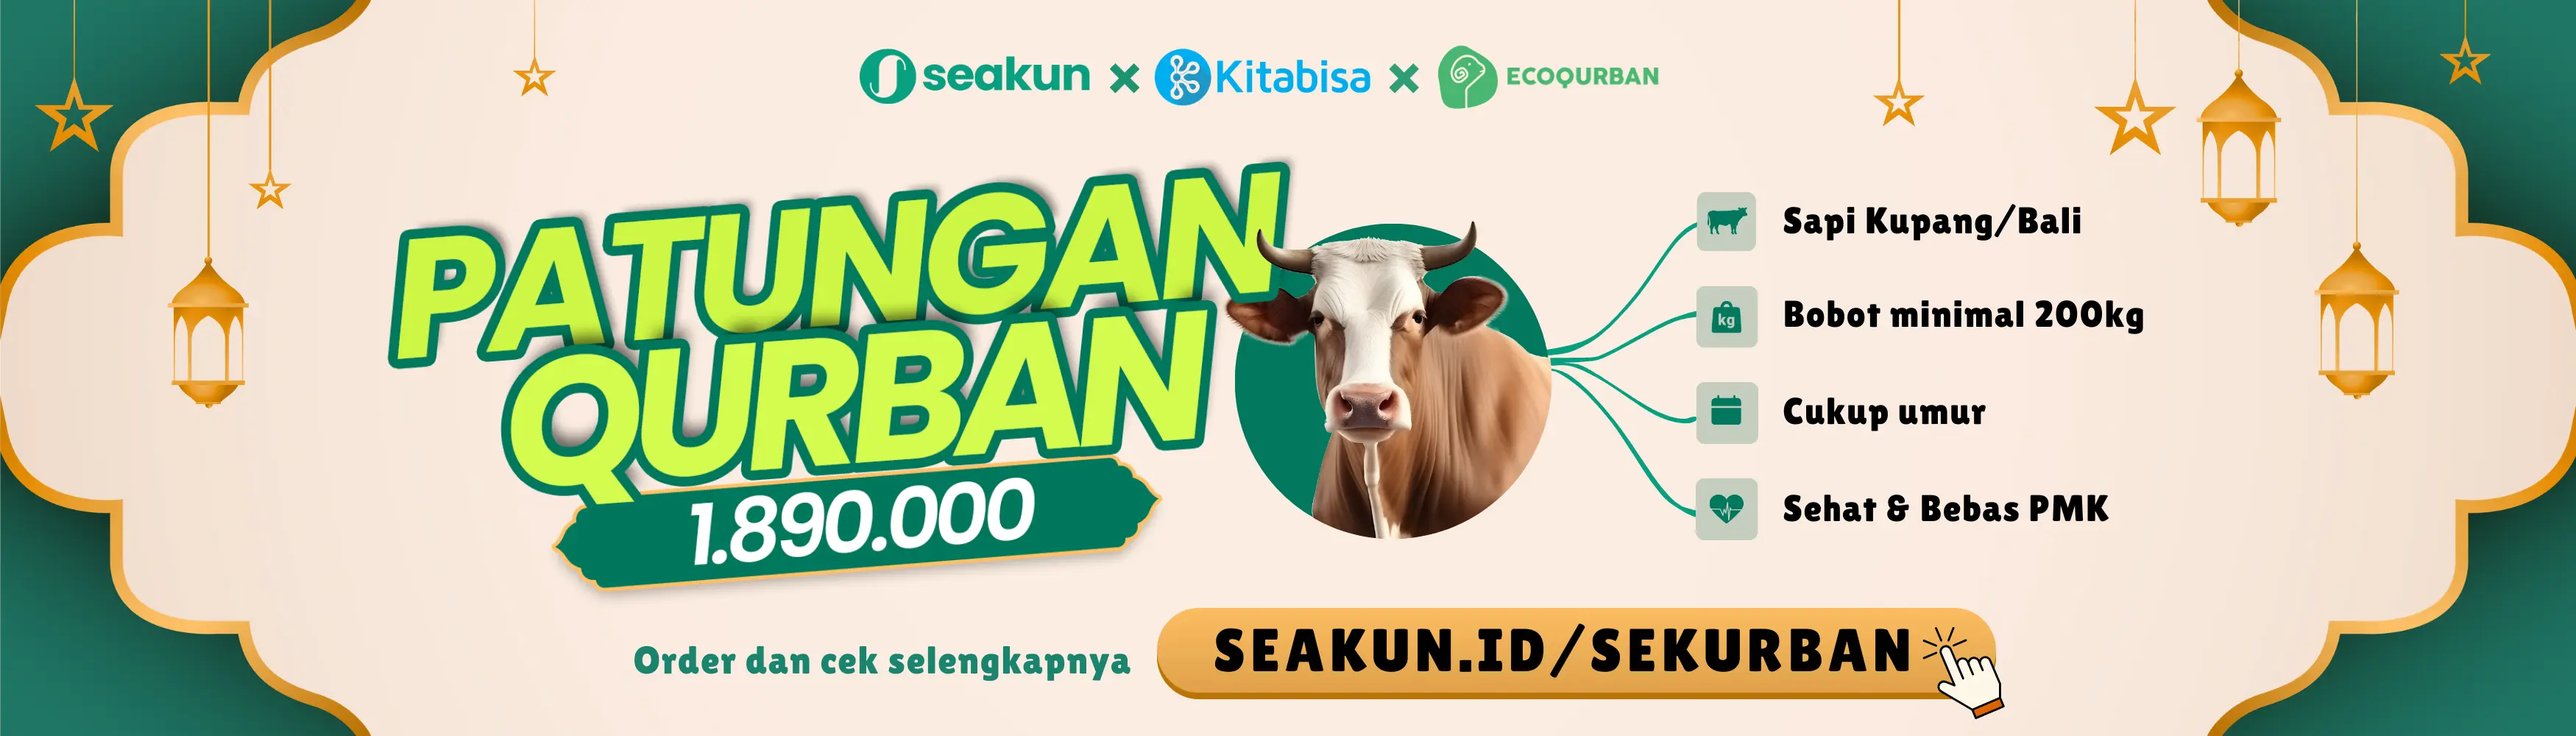
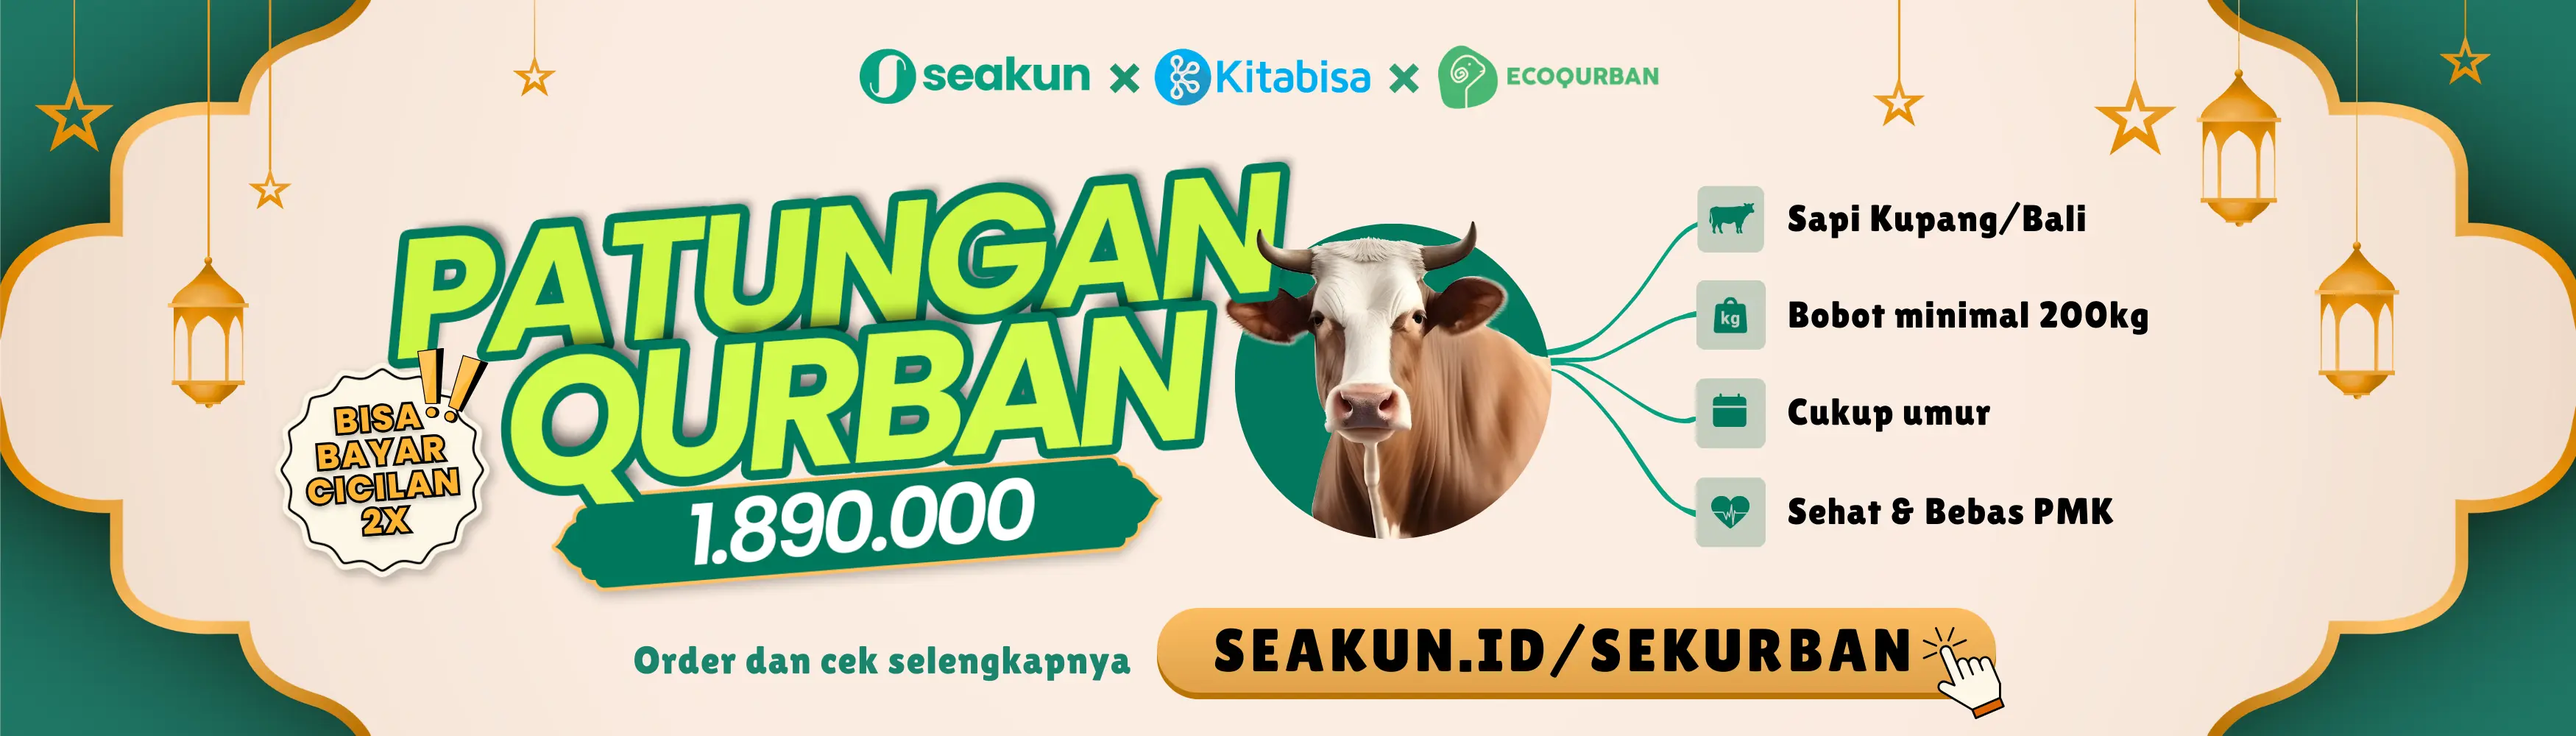
[M][LANDING-PAGE][IMP] update payment  page for sekurban (#414)

diff --git a/pages/payment/index.vue b/pages/payment/index.vue
@@ -42,11 +42,47 @@
       />
 
       <div class="mt-[24px] md:mt-[28px]">
+        <div v-if="!isAfterJune5">
+          <div v-if="orderData[0] && orderData[0].provider.slug == 'sekurban'">
+            <div class="flex items-center gap-2">
+              <CheckboxVue @getval="handleCheckisInstallmentPayments" />
+              <p class="text-gray-secondary font-medium text-sm">
+                Saya ingin melakukan cicilan
+              </p>
+            </div>
+            <div
+              class="mt-4 bg-[#E9FCF8] px-3 md:px-4 py-3 md:py-[11px] flex items-start gap-2 md:gap-3 rounded-lg border border-[#D6F5EF]"
+            >
+              <img
+                src="/images/illustration/installment-payment.webp"
+                alt="intallment"
+                class="w-[50px] h-[37px] hidden md:block"
+              />
+              <img
+                src="/images/icons/atoms/exclamation-mark-symbol.svg"
+                alt="warning"
+                class="w-4 h-4 md:hidden"
+              />
+              <p class="text-xs text-[#417465]">
+                Kamu akan melakukan dua kali cicilan qurban. Berikut ini adalah
+                pembayaran pertama, sedangkan pembayaran kedua harus dibayarkan
+                paling lambat tanggal 5 Juni 2024.
+              </p>
+            </div>
+            <hr class="my-7 border-[#E5E5E5]" />
+          </div>
+        </div>
         <h2 class="font-bold text-sm md:text-[20px]">Rincian Pembayaran</h2>
         <div class="mt-2 md:mt-4 text-sm md:text-base">
           <div class="flex justify-between items-center">
             <p>Biaya Langganan</p>
-            <p class="font-medium">{{ currencyFormat(totalPrice) }}</p>
+            <p class="font-medium">
+              {{
+                isInstallmentPayments
+                  ? currencyFormat(totalPrice / 2)
+                  : currencyFormat(totalPrice)
+              }}
+            </p>
           </div>
           <div class="flex justify-between items-center">
             <p>Biaya Transaksi & Tax</p>
@@ -56,7 +92,7 @@
           <div class="flex justify-between items-center">
             <p class="text-sm md:text-[20px] font-bold">Total Bayar</p>
             <p class="font-bold text-[#00BA88] md:text-[20px]">
-              {{ currencyFormat(totalPayment) }}
+              {{ handleFormatTotalFee(totalPayment) }}
             </p>
           </div>
         </div>
@@ -110,6 +146,8 @@ import { priceChangeList } from '../../constants/price-change';
 import ModalPriceScheme from '~/components/mollecules/ModalPriceScheme';
 import WarningPriceChange from './views/WarningPriceChange.vue';
 import { currencyFormat } from '~/helpers/word-transformation';
+import CheckboxVue from '../../components/atoms/Checkbox.vue';
+import moment from 'moment';
 
 export default {
   name: 'NewPayment',
@@ -126,6 +164,7 @@ export default {
     ModalPayment,
     ModalPriceScheme,
     WarningPriceChange,
+    CheckboxVue,
   },
   data() {
     return {
@@ -134,6 +173,8 @@ export default {
       OrderService,
       MasterService,
       PaymentService,
+      currentDate: moment(),
+      isInstallmentPayments: false,
       subcriptionPeriod: {
         name: '1 Bulan (Rp53.000)',
       },
@@ -247,6 +288,10 @@ export default {
       return this.priceChangeList.filter((provider) => {
         return providerSlugs.includes(provider.slug);
       });
+    },
+    isAfterJune5() {
+      const june5th = moment('2024-06-05');
+      return this.currentDate.isAfter(june5th);
     },
   },
   beforeDestroy() {
@@ -429,6 +474,22 @@ export default {
     },
     async createInvoice() {
       this.isLoadingPaymentButton = true;
+      if (this.isInstallmentPayments) {
+        const notesPayload = {
+          orderUid: this.orderData[0].orderUid,
+          customerUid: this.customerUid,
+          notes: 'Cicilan 2x',
+        };
+        const isNotesUpdated = await this.updateOrderNotes(notesPayload);
+        if (!isNotesUpdated) {
+          this.$alert.show({
+            status: 'error',
+            message: 'Terjadi kesalahan. Harap coba kembali',
+          });
+          this.isLoadingPaymentButton = false;
+          return;
+        }
+      }
       const { PaymentService } = this;
       const orders = this.orderData
         .filter((item) => item.checked)
@@ -438,11 +499,12 @@ export default {
         }));
       const payload = {
         customerUid: this.customerUid,
-        totalAmount: this.totalPayment,
+        totalAmount: this.checkInstallmentPayments(this.totalPayment),
         paymentMethod: this.paymentMethod,
         serviceFee: this.serviceFee,
         order: orders,
       };
+
       let counter = 0;
       do {
         try {
@@ -472,6 +534,21 @@ export default {
           status: 'error',
           message: 'Terjadi kesalahan. Harap coba kembali',
         });
+      }
+    },
+    async updateOrderNotes(payload) {
+      try {
+        const fetchUpdateNotes = await this.OrderService.updateOrderNotes(
+          payload
+        );
+        if (fetchUpdateNotes.data) {
+          return true;
+        } else {
+          return false;
+        }
+      } catch (error) {
+        console.log(error);
+        return false;
       }
     },
     manualPayment() {
@@ -534,6 +611,23 @@ export default {
     },
     OpenCloseModalPayment() {
       this.isShowModalPayment = !this.isShowModalPayment;
+    },
+    checkInstallmentPayments(amount) {
+      if (this.isInstallmentPayments) {
+        const fee = amount - this.serviceFee;
+        const result = fee / 2;
+        return result + this.serviceFee;
+      } else return amount;
+    },
+    handleCheckisInstallmentPayments(val) {
+      this.isInstallmentPayments = val;
+    },
+    handleFormatTotalFee(amount) {
+      if (this.isInstallmentPayments) {
+        const fee = amount - this.serviceFee;
+        const result = fee / 2;
+        return this.currencyFormat(result + this.serviceFee);
+      } else return this.currencyFormat(amount);
     },
     currencyFormat,
   },

diff --git a/pages/payment-result/views/SuccessPayment.vue b/pages/payment-result/views/SuccessPayment.vue
@@ -35,7 +35,7 @@
       >
         <img
           class="w-6/12 mx-auto"
-          src="/images/sekurban/thankyou.png"
+          src="/images/sekurban-new/thankyou.png"
           alt="pembayaran sukses"
         />
       </template>
@@ -48,7 +48,7 @@
       </template>
 
       <div class="text-center tn:px-4 md:px-12 tn:mb-4">
-        <h3 class="font-bold text-3xl tn:mt-4 text-center">Terima Kasih!</h3>
+        <h3 class="font-bold text-3xl tn:mt-8 text-center">Terima Kasih!</h3>
         <p
           v-if="
             dataOrder.length > 0 && dataOrder[0].provider.slug === 'sekurban'
@@ -84,7 +84,41 @@
             </template>
           </div>
         </div>
-        <div class="px-3">
+
+        <div v-if="dataOrder[0].provider.slug === 'sekurban'" class="px-3">
+          <div class="mt-3">
+            <div
+              v-if="transferAmount == 946000"
+              class="flex justify-between items-center text-sm md:text-base"
+            >
+              <p>Biaya Cicilan Pertama</p>
+              <p class="font-bold">
+                {{ currencyFormat(transferAmount - serviceFee) }}
+              </p>
+            </div>
+            <div
+              v-else
+              class="flex justify-between items-center text-sm md:text-base"
+            >
+              <p>Biaya Langganan</p>
+              <p class="font-bold">{{ currencyFormat(totalPrice) }}</p>
+            </div>
+            <div class="flex justify-between items-center text-sm md:text-base">
+              <p>Biaya Transfer & Tax</p>
+              <p class="font-bold">{{ currencyFormat(serviceFee) }}</p>
+            </div>
+          </div>
+          <hr class="mt-3" />
+          <div class="mt-4">
+            <div class="flex items-center justify-between">
+              <p>Total Pembayaran</p>
+              <p class="font-bold text-[18px]">
+                {{ currencyFormat(transferAmount) }}
+              </p>
+            </div>
+          </div>
+        </div>
+        <div v-else class="px-3">
           <div class="mt-3">
             <div class="flex justify-between items-center text-sm md:text-base">
               <p>Biaya Langganan</p>
@@ -120,6 +154,26 @@
           >
         </p>
       </div>
+      <div v-else>
+        <div
+          class="mt-4 bg-[#E9FCF8] px-3 md:px-4 py-3 md:py-[11px] flex items-start gap-2 md:gap-3 rounded-lg border border-[#D6F5EF]"
+        >
+          <img
+            src="/images/illustration/installment-payment.webp"
+            alt="intallment"
+            class="w-[50px] h-[37px] hidden md:block"
+          />
+          <img
+            src="/images/icons/atoms/exclamation-mark-symbol.svg"
+            alt="warning"
+            class="w-4 h-4 md:hidden"
+          />
+          <p class="text-xs text-[#417465]">
+            Kamu telah memilih pembayaran dengan cicilan dua kali. Pembayaran
+            kedua harus dibayarkan paling lambat tanggal 5 Juni 2024.
+          </p>
+        </div>
+      </div>
 
       <Button
         class="w-full bg-green-seakun text-white tn:mt-5 md:mt-6 py-[12px] rounded-2xl"
@@ -147,6 +201,10 @@ export default {
       default: () => [],
     },
     totalPrice: {
+      type: Number,
+      default: null,
+    },
+    transferAmount: {
       type: Number,
       default: null,
     },

diff --git a/pages/payment-result/index.vue b/pages/payment-result/index.vue
@@ -1,12 +1,17 @@
 <template>
   <div>
     <div v-if="isLoadingDataOrder" class="flex justify-center py-80 z-10">
-      <div class="spinner-border text-primary opacity-50"></div>
+      <div
+        class="w-full flex justify-center text-primary opacity-50 tn:pb-6 tn:pt-20"
+      >
+        <i class="fa-solid fa-circle-notch fa-spin fa-5x mx-auto"></i>
+      </div>
     </div>
     <SuccessPayment
       v-else-if="result == 'true'"
       :data-order="dataOrders"
       :total-price="totalTransfer"
+      :transfer-amount="transferAmount"
       @onClick="toHomePage()"
     />
     <FailedPayment :order="mainOrder" v-else />
@@ -30,6 +35,7 @@ export default {
     dataOrders: [],
     isLoadingDataOrder: true,
     totalTransfer: null,
+    transferAmount: null,
     mainOrder: {},
   }),
   mounted() {
@@ -51,6 +57,7 @@ export default {
           let total = 0;
           dataResult.forEach((el) => {
             total = total + el.payment.totalPrice;
+            this.transferAmount += el.payment.transferAmount;
           });
           this.totalTransfer = total;
           this.mainOrder = this.dataOrders[0];
@@ -68,13 +75,4 @@ export default {
   },
 };
 </script>
-<style>
-.spinner-border {
-  display: flex;
-  justify-content: center;
-  width: 4rem;
-  height: 4rem;
-  border: 0.5em solid currentColor;
-  border-right-color: transparent;
-}
-</style>
+<style></style>

diff --git a/pages/sekurban/views/PricingSection.vue b/pages/sekurban/views/PricingSection.vue
@@ -10,7 +10,7 @@
       <div
         class="w-full lg:w-2/4 text-center mx-0 lg:mx-20 my-[41.5px] md:my-[44px] lg:my-[44px]"
       >
-        <div class="mb-8 md:mb-5">
+        <div class="mb-[10px] md:mb-4">
           <div
             class="text-xs md:text-sm font-bold bg-[#C0F5EA] text-primary py-1 lg:py-1.5 px-2 lg:px-3 inline-block rounded-lg"
           >
@@ -26,6 +26,13 @@
             oleh Seakun, Kitabisa dan Ecoqurban.
           </p>
         </div>
+        <section class="mb-4 md:mb-5">
+          <img
+            src="/images/illustration/labels-can-pay-twice.webp"
+            alt="installment-payment"
+            class="w-[200px] h-[46px] md:w-[261px] md:h-[59px] mx-auto"
+          />
+        </section>
         <div class="bg-[#D7FCF2] rounded-xl border-2 border-primary p-3 lg:p-4">
           <div class="flex flex-col gap-1 lg:gap-3">
             <div class="flex justify-between items-center">
